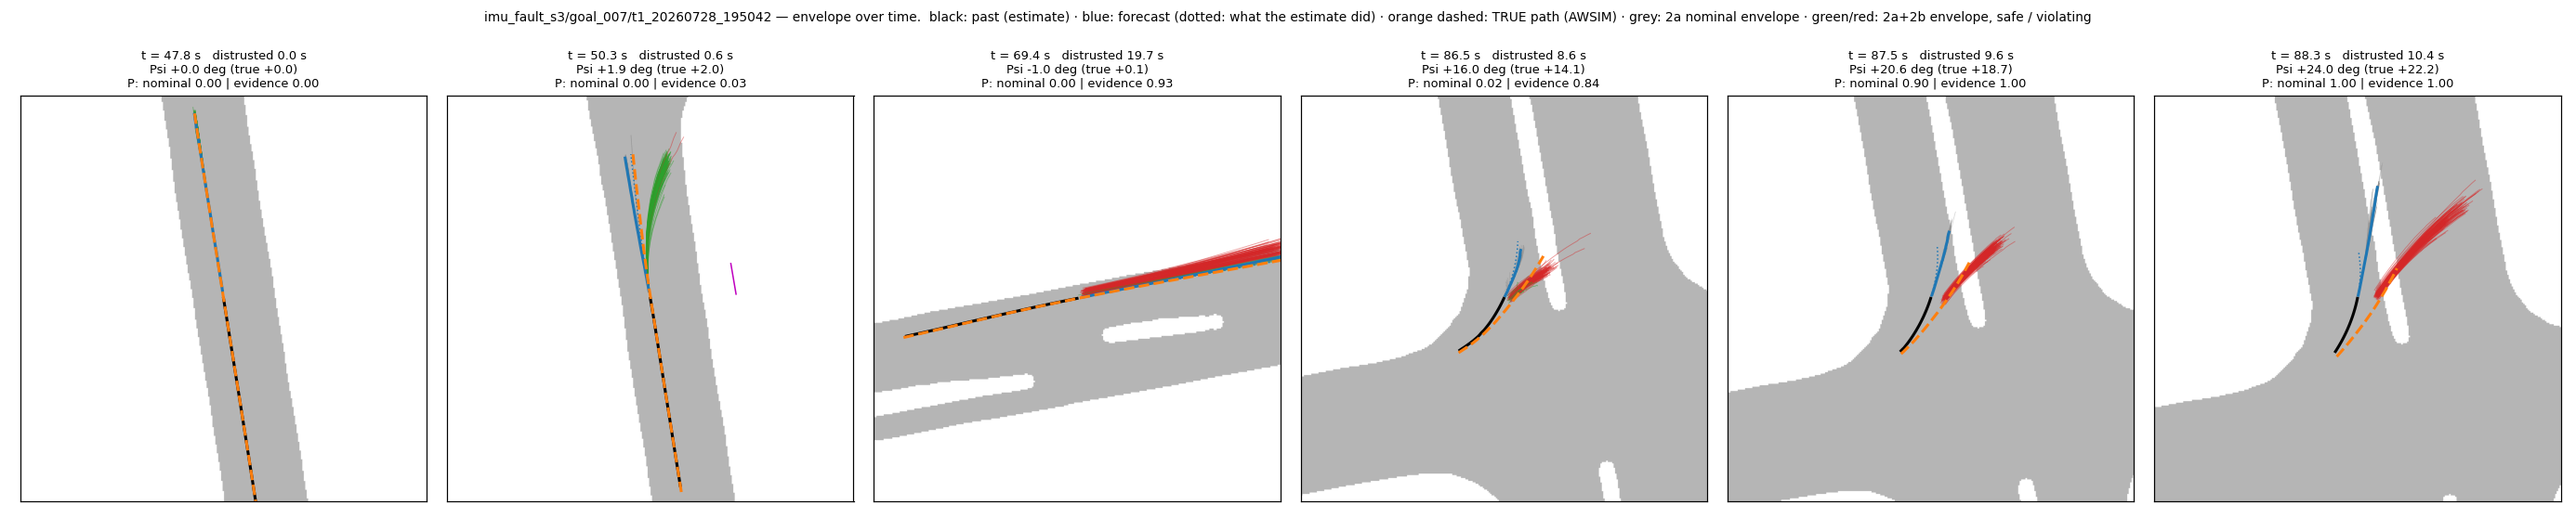
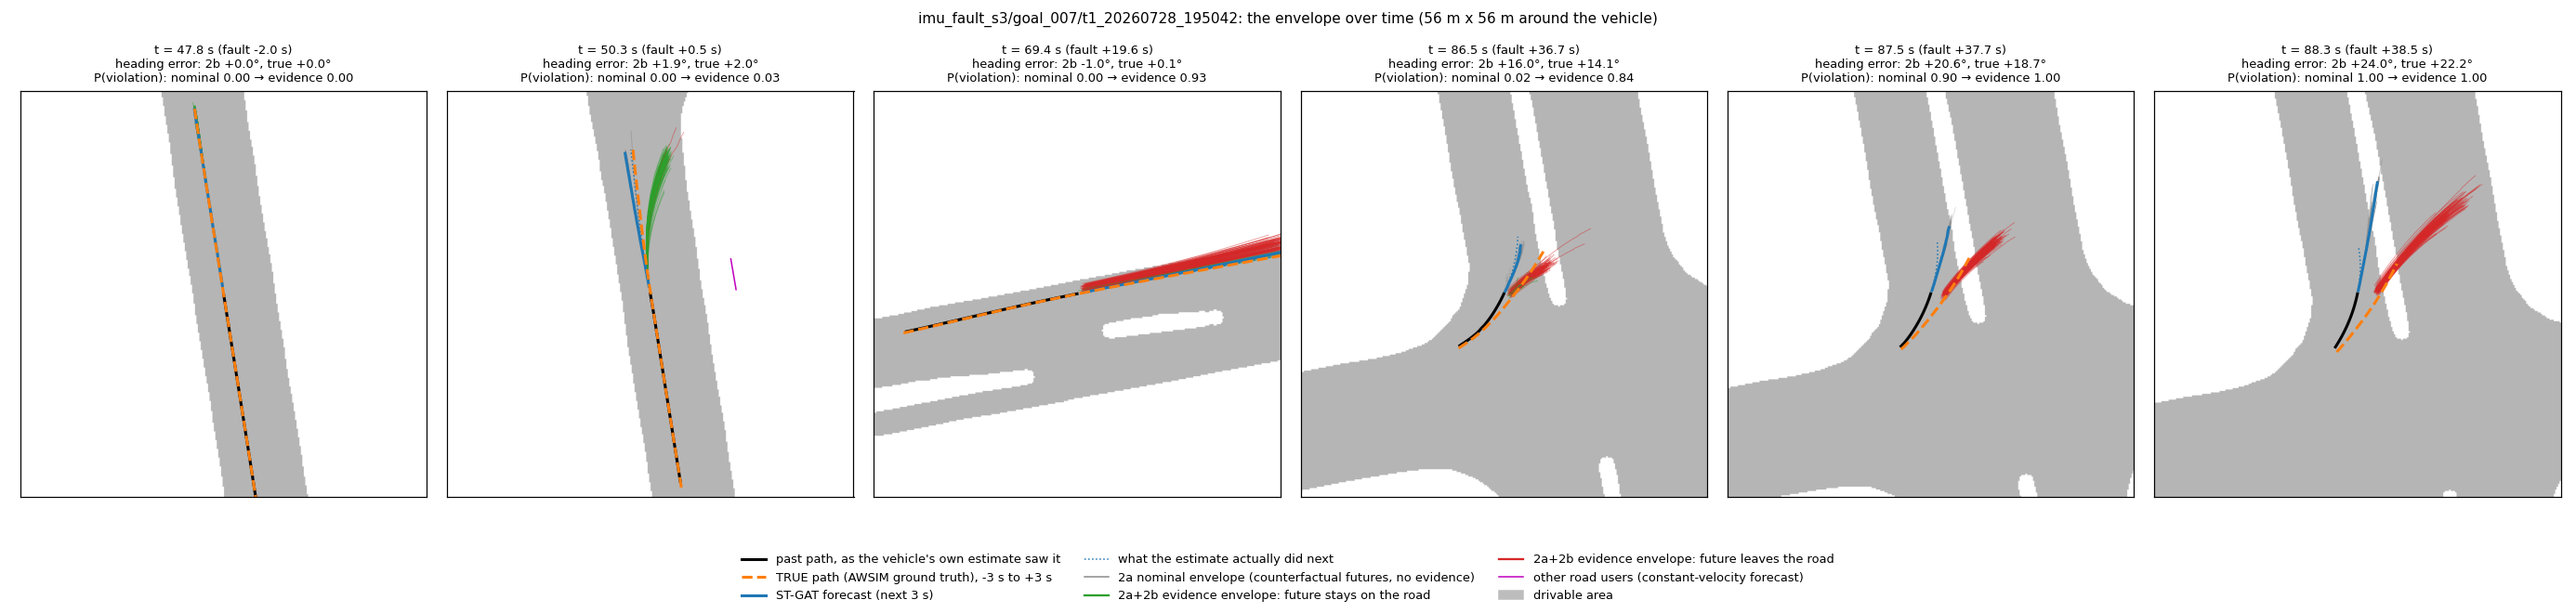
Filmstrip legend, novelty marked on diagram, formal pose-error model and invariants
architecture.md: pose-error dynamics derived from the consistency gaps
(the lateral rule is exact kinematics), LiDAR scan-match as a
pseudo-measurement, one filter reading of the three current mechanisms,
and invariants I1-I6 every change must pass.

Claude-Session: https://claude.ai/code/session_01D6N5GagNh4DQrHXspw3Qup

Changed region(s): [[0.0, 0.0, 1.0, 0.9808], [0.8066, 0.4161, 0.8377, 0.5647], [0.9928, 0.1486, 1.0, 0.1783]]

diff --git a/docs/architecture_diagram.html b/docs/architecture_diagram.html
@@ -18,6 +18,8 @@
   --review: #6b4fa3;
   --planned: #7b858a;
   --open: #a8433a;
+  --novel: #c0267e;
+  --novel-tint: #fbe9f3;
   --sans: "IBM Plex Sans", system-ui, -apple-system, "Segoe UI", sans-serif;
   --mono: "IBM Plex Mono", ui-monospace, "SFMono-Regular", Menlo, monospace;
 }
@@ -25,13 +27,13 @@
   :root:not([data-theme="light"]) {
     --bg: #141a1d; --panel: #1b2226; --fg: #e3e8ea; --muted: #9aa6ab; --line: #6c787d; --rule: #2b3439;
     --accent: #5fb3cf; --accent-tint: #1d3540; --built: #5cc189; --progress: #e0a13d; --review: #a98de0;
-    --planned: #8d979c; --open: #e07a6f; color-scheme: dark;
+    --planned: #8d979c; --open: #e07a6f; --novel: #f06bb6; --novel-tint: #3a1d2d; color-scheme: dark;
   }
 }
 :root[data-theme="dark"] {
   --bg: #141a1d; --panel: #1b2226; --fg: #e3e8ea; --muted: #9aa6ab; --line: #6c787d; --rule: #2b3439;
   --accent: #5fb3cf; --accent-tint: #1d3540; --built: #5cc189; --progress: #e0a13d; --review: #a98de0;
-  --planned: #8d979c; --open: #e07a6f; color-scheme: dark;
+  --planned: #8d979c; --open: #e07a6f; --novel: #f06bb6; --novel-tint: #3a1d2d; color-scheme: dark;
 }
 body { background: var(--bg); color: var(--fg); font-family: var(--sans); font-size: 15px; line-height: 1.5; }
 .wrap { max-width: 1080px; margin: 0 auto; padding-inline: 20px; padding-block: 28px 40px; display: grid; gap: 22px; }
@@ -61,6 +63,9 @@ svg .b-progress rect { stroke: var(--progress); } svg .b-progress text { fill: v
 svg .b-review rect { stroke: var(--review); } svg .b-review text { fill: var(--review); }
 svg .b-planned rect { stroke: var(--planned); stroke-dasharray: 3 2; } svg .b-planned text { fill: var(--planned); }
 svg .b-open rect { stroke: var(--open); } svg .b-open text { fill: var(--open); }
+svg .novel-ring { fill: none; stroke: var(--novel); stroke-width: 2.4; stroke-dasharray: 7 4; }
+svg .novel-tag rect { fill: var(--novel); }
+svg .novel-tag text { fill: #fff; font-family: var(--mono); font-size: 10.5px; font-weight: 600; letter-spacing: 0.04em; }
 svg marker path { fill: var(--line); }
 svg #arrow-ev path { fill: var(--accent); }
 .cols { display: grid; grid-template-columns: repeat(auto-fit, minmax(300px, 1fr)); gap: 22px; }
@@ -71,6 +76,11 @@ h2 { font-size: 0.8rem; font-family: var(--mono); font-weight: 500; letter-spaci
 .pill { font-family: var(--mono); font-size: 0.75rem; border: 1.2px solid currentColor; border-radius: 999px; padding: 1px 8px; justify-self: start; }
 .pill.built { color: var(--built); } .pill.progress { color: var(--progress); } .pill.review { color: var(--review); }
 .pill.planned { color: var(--planned); border-style: dashed; } .pill.open { color: var(--open); }
+.pill.novel { color: #fff; background: var(--novel); border-color: var(--novel); }
+.novelty { margin-top: 18px; background: var(--novel-tint); border: 1px solid var(--novel); border-radius: 10px; padding: 14px 18px; }
+.novelty h2 { color: var(--novel); }
+.novelty ol { margin: 0; padding-left: 1.3em; display: grid; gap: 6px; }
+.novelty b { color: var(--fg); }
 .log { margin: 0; padding: 0; list-style: none; display: grid; gap: 10px; }
 .log li { display: grid; grid-template-columns: 92px 1fr; gap: 12px; }
 .log time { font-family: var(--mono); font-size: 0.8rem; color: var(--muted); font-variant-numeric: tabular-nums; padding-top: 2px; }
@@ -243,8 +253,22 @@ h2 { font-size: 0.8rem; font-family: var(--mono); font-weight: 500; letter-spaci
         <text class="line" x="26" y="840">Graded response in proportion to P and its growth: slow down, widen gaps, hand over, stop. Mitigation shows up as P levelling off.</text>
         <g class="badge b-open"><rect x="904" y="802" width="72" height="22" rx="11"/><text x="940" y="817" text-anchor="middle">scope open</text></g>
       </g>
+
+      <!-- novelty: what this work adds -->
+      <rect class="novel-ring" x="665" y="265" width="310" height="120" rx="11"/><g class="novel-tag"><rect x="678" y="256" width="194" height="18" rx="9"/><text x="686" y="269">NEW 2 · how much, which way</text></g>
+      <rect class="novel-ring" x="25" y="515" width="310" height="132" rx="11"/><g class="novel-tag"><rect x="38" y="506" width="181" height="18" rx="9"/><text x="46" y="519">NEW 1 · scene-conditioned</text></g>
+      <rect class="novel-ring" x="345" y="515" width="310" height="132" rx="11"/><g class="novel-tag"><rect x="358" y="506" width="168" height="18" rx="9"/><text x="366" y="519">NEW 3 · evidence growth</text></g>
     </svg>
   </div>
+
+  <section class="novelty">
+    <h2>What's new in this architecture</h2>
+    <ol>
+      <li><b>Scene-conditioned counterfactual envelope (2a).</b> The futures are the forecast plus real recorded errors from the 150 most similar scenes in the predictor's own embedding, conformally calibrated, so the envelope is tight where the scene licenses it and wide where it doesn't.</li>
+      <li><b>Learned redundancy gives size and direction (Layer 1).</b> Independent measurements of the same ego quantities go into the predictor as inputs and as consistency heads. Their calibrated residuals say how far and which way the state estimate is off; behaviour residuals alone only say when.</li>
+      <li><b>Evidence-driven envelope growth (2b).</b> The envelope is moved by the integrated consistency evidence, so P(violation) is grounded in the map and objects and keeps growing while a fault persists unmitigated.</li>
+    </ol>
+  </section>
 
   <div class="cols">
     <section>
@@ -255,11 +279,13 @@ h2 { font-size: 0.8rem; font-family: var(--mono); font-weight: 500; letter-spaci
         <li><span class="pill review">under review</span><span>Works, but the design is being reconsidered: the alarm and onset logic, and how results are reported.</span></li>
         <li><span class="pill planned">planned</span><span>Specified in the design, not built yet.</span></li>
         <li><span class="pill open">open</span><span>Scope not decided.</span></li>
+        <li><span class="pill novel">NEW</span><span>A contribution of this work (dashed ring on the diagram).</span></li>
       </ul>
     </section>
     <section>
       <h2>Recent changes</h2>
       <ul class="log">
+        <li><time datetime="2026-10-08">2026-10-08</time><span>The three contributions are marked on the diagram. Formal pose-error model and invariants added to the design document: the LiDAR-correction mechanisms are read as special cases of one estimator.</span></li>
         <li><time datetime="2026-10-08">2026-10-08</time><span>Onset threshold calibrated to at most 6 distrust episodes per hour of nominal driving (4.2/h achieved, was 47/h); carried pose error released once LiDAR-map matching is healthy for 2 s. Evidence method: 4/4 real departures, 2.0–3.4 s warning; harmless IMU faults in alarm 0–18% of fault time.</span></li>
         <li><time datetime="2026-10-08">2026-10-08</time><span>Alarm logic: every channel becomes a conformal p-value, combined into one bounded score; capped CUSUM with a 2 s recovery test, so alarms end. 2b carries the pose error after distrust ends. Traffic-light channels now feed Layer 1.</span></li>
         <li><time datetime="2026-10-08">2026-10-08</time><span>Pose consistency made planar (ego_v6): lateral and along-track pose-velocity gaps, integrated over a sliding 3 s window; heading from onset. Checked against AWSIM ground truth.</span></li>

diff --git a/experiments/scripts/layer2_envelope.py b/experiments/scripts/layer2_envelope.py
@@ -815,11 +815,31 @@ def _frame_panel(ax, tr, g, i, pool, drivable, map_data, args, title=True):
     ax.set_xticks([])
     ax.set_yticks([])
     if title:
-        ev = tr['ev']
-        ax.set_title(f"t = {tr['t'][i]:.1f} s   distrusted {ev['tau'][i]:.1f} s\n"
-                     f"Psi {np.degrees(ev['Psi'][i]):+.1f} deg (true {np.degrees(g['true_psi'][i]):+.1f})\n"
-                     f"P: nominal {out['nominal']:.2f} | evidence {out['evidence']:.2f}", fontsize=8.5)
+        _frame_title(ax, tr, g, i, out)
     return out
+
+
+def _frame_legend_handles():
+    from matplotlib.lines import Line2D
+    from matplotlib.patches import Patch
+    return [Line2D([], [], color='k', lw=2, label="past path, as the vehicle's own estimate saw it"),
+            Line2D([], [], color='#ff7f0e', lw=2, ls='--', label='TRUE path (AWSIM ground truth), -3 s to +3 s'),
+            Line2D([], [], color='#1f77b4', lw=2, label='ST-GAT forecast (next 3 s)'),
+            Line2D([], [], color='#1f77b4', lw=1, ls=':', label='what the estimate actually did next'),
+            Line2D([], [], color='#8c8c8c', lw=1, label='2a nominal envelope (counterfactual futures, no evidence)'),
+            Line2D([], [], color='#2ca02c', lw=1.5, label='2a+2b evidence envelope: future stays on the road'),
+            Line2D([], [], color='#d62728', lw=1.5, label='2a+2b evidence envelope: future leaves the road'),
+            Line2D([], [], color='m', lw=1, label='other road users (constant-velocity forecast)'),
+            Patch(color='#bdbdbd', label='drivable area')]
+
+
+def _frame_title(ax, tr, g, i, out):
+    ev = tr['ev']
+    fs = min((w['start'] for w in tr['fault_windows']), default=None)
+    rel = f" (fault {tr['t'][i] - fs:+.1f} s)" if fs is not None else ''
+    ax.set_title(f"t = {tr['t'][i]:.1f} s{rel}\n"
+                 f"heading error: 2b {np.degrees(ev['Psi'][i]):+.1f}°, true {np.degrees(g['true_psi'][i]):+.1f}°\n"
+                 f"P(violation): nominal {out['nominal']:.2f} → evidence {out['evidence']:.2f}", fontsize=8.5)
 
 
 def _snapshot_times(tr, g):
@@ -842,14 +862,13 @@ def _snapshot_times(tr, g):
 
 def plot_filmstrip(tr, g, pool, drivable, map_data, args):
     idxs = _snapshot_times(tr, g)
-    fig, axes = plt.subplots(1, len(idxs), figsize=(4.2 * len(idxs), 5.2))
+    fig, axes = plt.subplots(1, len(idxs), figsize=(4.2 * len(idxs), 6.0))
     axes = np.atleast_1d(axes)
     for ax, i in zip(axes, idxs):
         _frame_panel(ax, tr, g, i, pool, drivable, map_data, args)
-    fig.suptitle(f"{tr['rel']} — envelope over time.  black: past (estimate) · blue: forecast (dotted: what the "
-                 f"estimate did) · orange dashed: TRUE path (AWSIM) · grey: 2a nominal envelope · "
-                 f"green/red: 2a+2b envelope, safe / violating", fontsize=9)
-    fig.tight_layout(rect=[0, 0, 1, 0.93])
+    fig.suptitle(f"{tr['rel']}: the envelope over time (56 m x 56 m around the vehicle)", fontsize=10)
+    fig.legend(handles=_frame_legend_handles(), loc='lower center', ncol=3, fontsize=8.5, frameon=False)
+    fig.tight_layout(rect=[0, 0.14, 1, 0.95])
     fig.savefig(os.path.join(args.output_dir, f"filmstrip_{tr['rel'].replace('/', '__')}.png"), dpi=110)
     plt.close(fig)
 
@@ -860,7 +879,9 @@ def make_gif(tr, g, pool, drivable, map_data, args):
     fs = min((w['start'] for w in tr['fault_windows']), default=t[0])
     end = (g['departure'] + 1.5) if g['departure'] is not None else fs + 12
     frames = [int(np.argmin(np.abs(t - x))) for x in np.arange(fs - 3, end, 0.3)]
-    fig, ax = plt.subplots(figsize=(6, 6.4))
+    fig = plt.figure(figsize=(6, 8.2))
+    ax = fig.add_axes([0.04, 0.27, 0.92, 0.64])
+    fig.legend(handles=_frame_legend_handles(), loc='lower center', ncol=1, fontsize=7.5, frameon=False)
 
     def draw(i):
         ax.clear()

diff --git a/docs/architecture.md b/docs/architecture.md
@@ -1,6 +1,6 @@
 # Pipeline architecture
 
-Current design, 2026-10-07. Shareable version with diagram:
+Current design, 2026-10-08. Shareable version with diagram:
 https://claude.ai/code/artifact/1cc568ab-f9b5-4945-afe4-9cf1c9f55a65 — this file
 is the repo copy agents read. What is measured so far lives in
 `docs/findings.md`; what to collect next in `docs/experiment_plan.md`.
@@ -34,8 +34,9 @@ last 3 s (`st_gat/`, schema selected by `STGAT_GRAPH_FRAME`, see CLAUDE.md).
   redundant ego-state sources (ego_v4: vehicle-reported yaw rate and wheel
   speed, EKF gate Mahalanobis, LiDAR-to-map match probability).
 - Outputs: behavior heads (position, velocity, steering, acceleration,
-  traffic-light channels) + consistency heads (ego_v4: EKF − vehicle yaw rate,
-  EKF − wheel speed).
+  traffic-light channels) + consistency heads (ego_v6: EKF − vehicle yaw rate,
+  EKF − wheel speed; pose yaw rate − vehicle yaw rate; pose along-track and
+  lateral speed − vehicle speed, in the estimate's heading frame).
 - Scores: every head's residual is a conformal nonconformity score,
   calibrated per horizon step, leave-one-trial-out on nominal trials. With 30
   overlapping forecasts in flight, every instant has ~435 observed (lag, step)
@@ -52,13 +53,10 @@ group). Tightened by a lane-keeping prior — valid only while the state is
 trusted (planned; removes the nominal open-loop tail). No physics trim: it
 judges counterfactuals against the measured state, which a fault corrupts.
 
-**2b, evidence-driven uncertainty.** From the onset time t0, integrate the
-calibrated consistency gap e(s) (and its conformal band) into a pose-error
-distribution; rigidly rotate/shift each counterfactual:
-
-    dpsi(t) = integral_{t0}^{t} e(s) ds,   dy(t) = integral_{t0}^{t} v(s) sin(dpsi(s)) ds
-
-Mean = which way, spread = how much (calibrated band), start = when. An
+**2b, evidence-driven uncertainty.** The pose error δ = (ψ, x, y) is
+estimated from the consistency gaps (equations in the next section) and each
+counterfactual is rigidly rotated by ψ and shifted by (x, y). Mean = which
+way, spread = how much (calibrated band), start = when. An
 unmitigated fault drives P(violation) up continuously; slowing down halts the
 position growth, so mitigation shows as P levelling off. While distrusted the
 2a tightening is relaxed. No redundant source (e.g. traffic-light state):
@@ -80,6 +78,94 @@ Alarm thresholds: per variant, firing on 1% of nominal windows (matched
 false-alarm rate). Lead time: onset of the alarm episode still active at the
 real violation (gaps ≤ 1 s merged).
 
+## Formal model and consistency checks
+
+Every mechanism that moves the envelope has to follow from the equations
+below. A change that cannot be stated as one of them is a patch.
+
+**Pose error.** True pose (p, θ); the vehicle's own estimate (p̂, θ̂). The
+error, expressed in the estimate's heading frame R(θ̂):
+
+```math
+\psi = \hat\theta - \theta, \qquad
+\begin{bmatrix} x \\ y \end{bmatrix} = R(\hat\theta)^\top (\hat p - p)
+```
+
+**Measurements.** The estimate's own rates (differenced pose: yaw rate
+r̂, velocity (â, l̂) along and across its heading) and the vehicle's own
+report (yaw rate r_v, wheel speed v; lateral speed v_l ≈ 0). The pose
+estimate includes every LiDAR scan-match correction, so its rates do too.
+Consistency gaps (the ego_v6 heads' targets):
+
+```math
+g_\psi = \hat r - r_v, \qquad g_a = \hat a - v, \qquad g_l = \hat l - v_l
+```
+
+**Error dynamics** (exact kinematics, no tuning; the true velocity is
+(v, v_l) in the true heading frame, hence R(−ψ) in the estimate's frame):
+
+```math
+\dot\psi = g_\psi - b_\psi + n_\psi, \qquad
+\dot x = g_a + v(1-\cos\psi) + \hat r\, y, \qquad
+\dot y = g_l + v \sin\psi - \hat r\, x
+```
+
+b_ψ and n are the redundant sensor's bias and noise. Their effect on an
+integral over τ seconds is what the nominal drift bands b(τ) measure
+(heading 1.1° at 3 s, 1.8° at 10 s; lateral 0.17 m / 0.43 m). The
+r̂·x, r̂·y terms come from the rotating frame and are dropped in the code
+(second order while the errors are small).
+
+**Absolute reference.** LiDAR-to-map matching is the one source that
+observes δ directly: when it is healthy, δ ≈ 0 within the nominal band. Its
+health h(t) (EKF gate Mahalanobis distance, scan-match probability, both
+judged against nominal quantiles) sets how much it can be trusted.
+
+**One estimator for all three behaviours.** A filter on δ: predict with the
+dynamics above (process noise Q from the drift bands), update with the
+pseudo-measurement δ = 0 whose noise R(h) is small when the reference is
+healthy and infinite while Layer 1 distrusts it:
+
+```math
+\hat\delta_{k+1}^- = \hat\delta_k + f(\hat\delta_k, g_k, v_k)\,\Delta t, \quad
+P^-_{k+1} = F P_k F^\top + Q, \quad
+K = P^- (P^- + R(h_k))^{-1}, \quad
+\hat\delta_{k+1} = (I - K)\,\hat\delta_{k+1}^-
+```
+
+What the code does now, read as special cases of this filter:
+
+| Current mechanism | Filter reading | Gap |
+|---|---|---|
+| Heading integrated from onset t0 | R = ∞ from t0 (pure prediction) | consistent |
+| Position over a sliding 3 s window | a fixed-gain leaky update, gain ≈ 1/3 s | the window is tuned, not derived from R(h) |
+| Release after 2 s of healthy LiDAR | K = I once healthy | binary, not graded by h |
+| Spread ± integrated band | P from Q | P never shrinks except at release |
+
+The filter replaces the three by one rule. The assumption it rests on is
+untested: that LiDAR health is poor whenever the true error is large (true
+on the four departures? check before building).
+
+**Envelope and risk.** Counterfactual k at window t: forecast μ_t plus a
+recorded error trajectory ε_k from the scene neighbours (2a), then moved
+by a draw of δ (2b):
+
+```math
+\tau_k = R(\psi_k)\,(\mu_t + \varepsilon_k) + (x_k, y_k), \quad \delta_k \sim \mathcal N(\hat\delta_t, P_t), \qquad
+P_t(\text{violation}) = \frac{1}{K}\sum_k \mathbf 1[\tau_k \notin \mathcal S_t]
+```
+
+**Invariants (the flow check).** Every change is checked against these:
+
+| # | Invariant | Check | Now |
+|---|---|---|---|
+| I1 | Every score is calibrated leave-one-trial-out on nominal trials | conformal coverage per horizon step | 0.90 at 0.90 |
+| I2 | Null preservation: inside the nominal band, 2b does not move the envelope | P_evidence = P_nominal on nominal windows | 99.96% |
+| I3 | δ follows the error dynamics above, nothing tuned | derivation, as here | sliding window still tuned |
+| I4 | Onset and release use the same evidence | one source of truth for distrust | onset: Layer 1 score; release: LiDAR health |
+| I5 | Every safe set passes the realized-nominal test | `--mode check-safe-set` | 0–0.1% |
+| I6 | δ̂ tracks AWSIM truth | `heading_tracking.png` | heading within 0.5–2.2° at departure |
+
 ## Layer 3 — response hook
 
 Consumes P(violation) per type, its level and its growth rate; graded
@@ -96,4 +182,5 @@ Scope (signal definition only vs. closed-loop control) is an open decision.
 | Model gate / ablation table | `experiments/scripts/model_safety_benchmark.py` |
 | Layer 1 calibration | `conformal_horizon_calibration.py`, `conformal_mondrian_calibration.py`, `conformal_scene_conditioning.py`, `audit_minority_scenarios.py` |
 | Residual triangle | `experiments/scripts/residual_triangle_check.py` |
-| Layer 2 | `experiments/scripts/layer2_consequence_estimation.py`, safe sets in `experiments/lib/margin.py` |
+| Layer 2 (method) | `experiments/scripts/layer2_envelope.py`; helpers and safe-set check in `layer2_consequence_estimation.py`; safe sets in `experiments/lib/margin.py` |
+| Highlight figures | `experiments/scripts/plot_highlights.py` |
